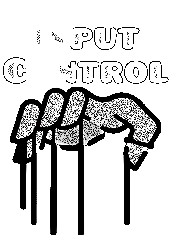
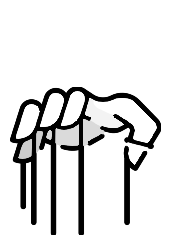
texture hotfix

diff --git a/src/main.cpp b/src/main.cpp
@@ -185,7 +185,7 @@ class $modify(LoadingLayerExt, LoadingLayer) {
 		if (!LoadingLayer::init(refresh)) return false;
 
 		if (Ref a = typeinfo_cast<CCSprite*>(querySelector("bg-texture"))) {
-			a->setDisplayFrame(CCSprite::create("GJ_square02.png")->displayFrame());
+			a->setDisplayFrame(CCSprite::create("PixelSheet_01.png")->displayFrame());
 			a->setScaleX(this->getContentSize().width / a->getContentSize().width);
 			a->setScaleY(this->getContentSize().height / a->getContentSize().height);
 			a->setColor(ccWHITE);
